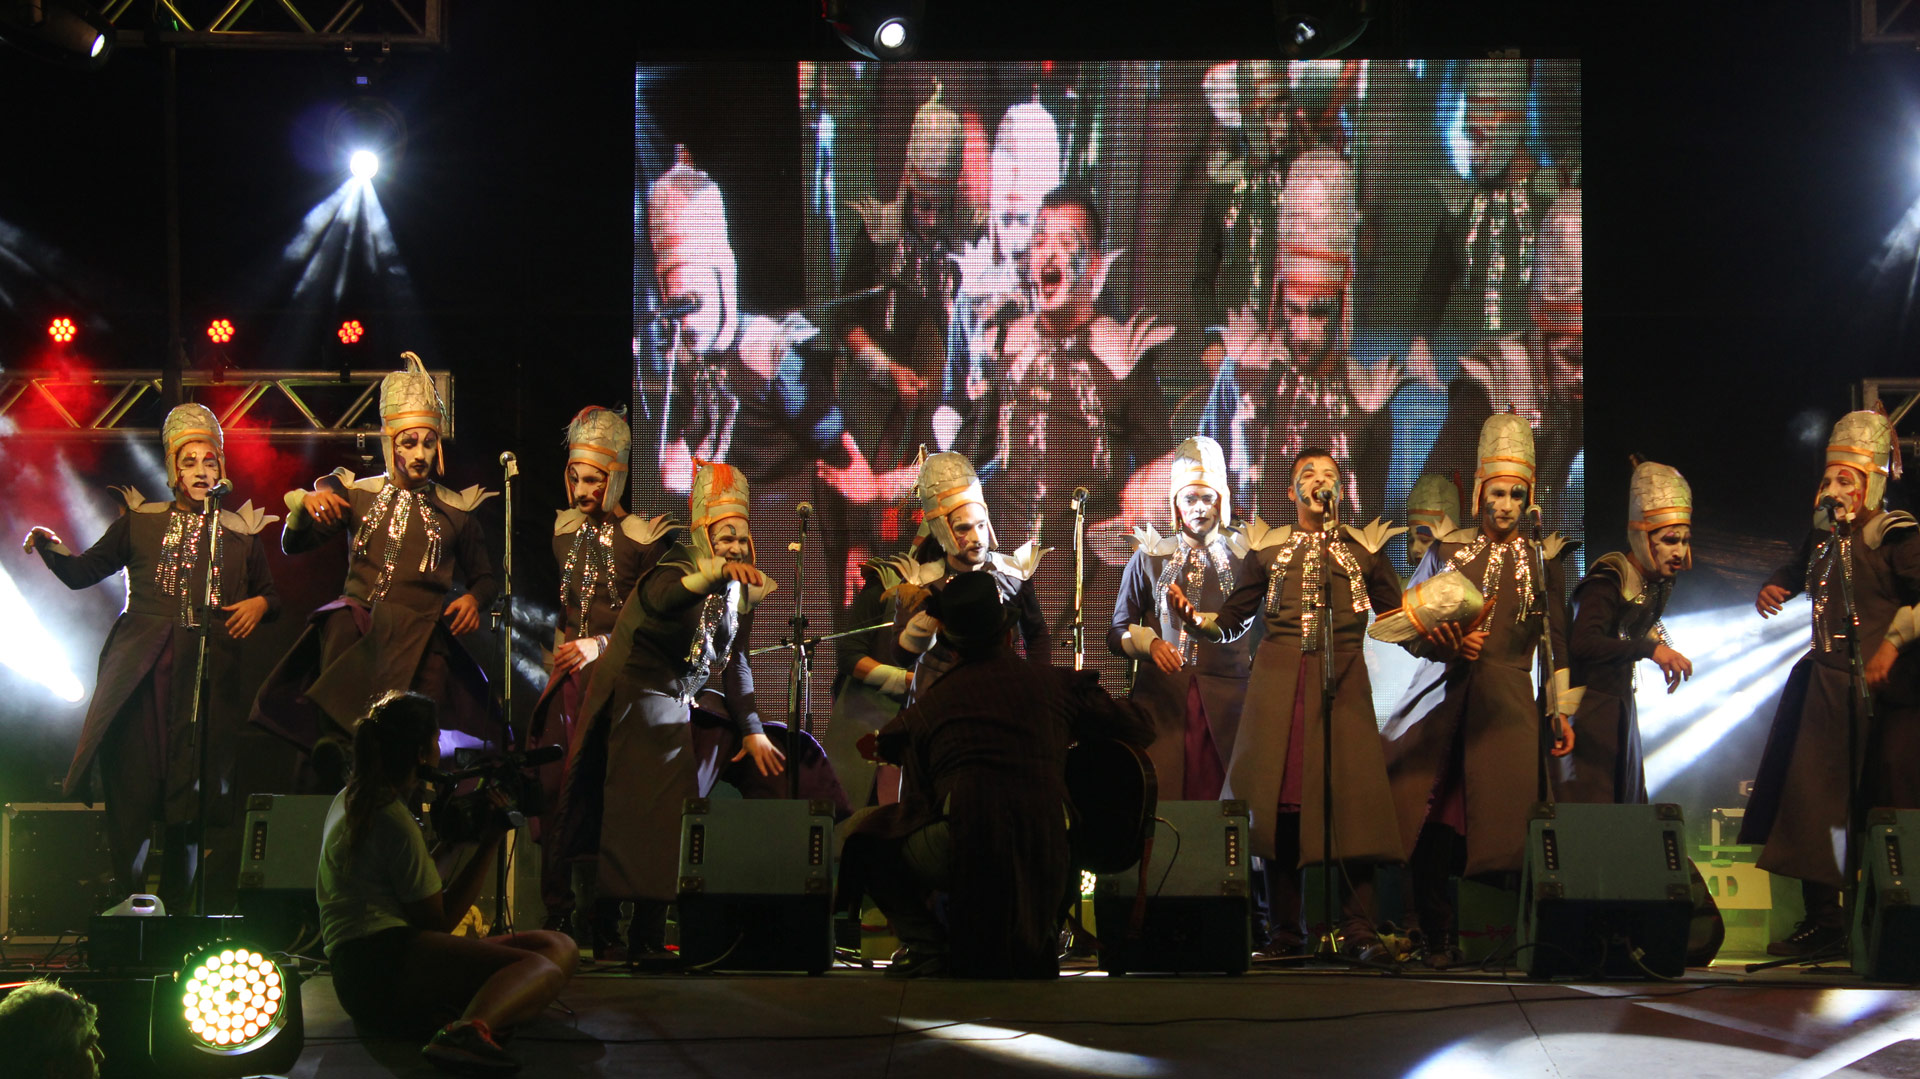
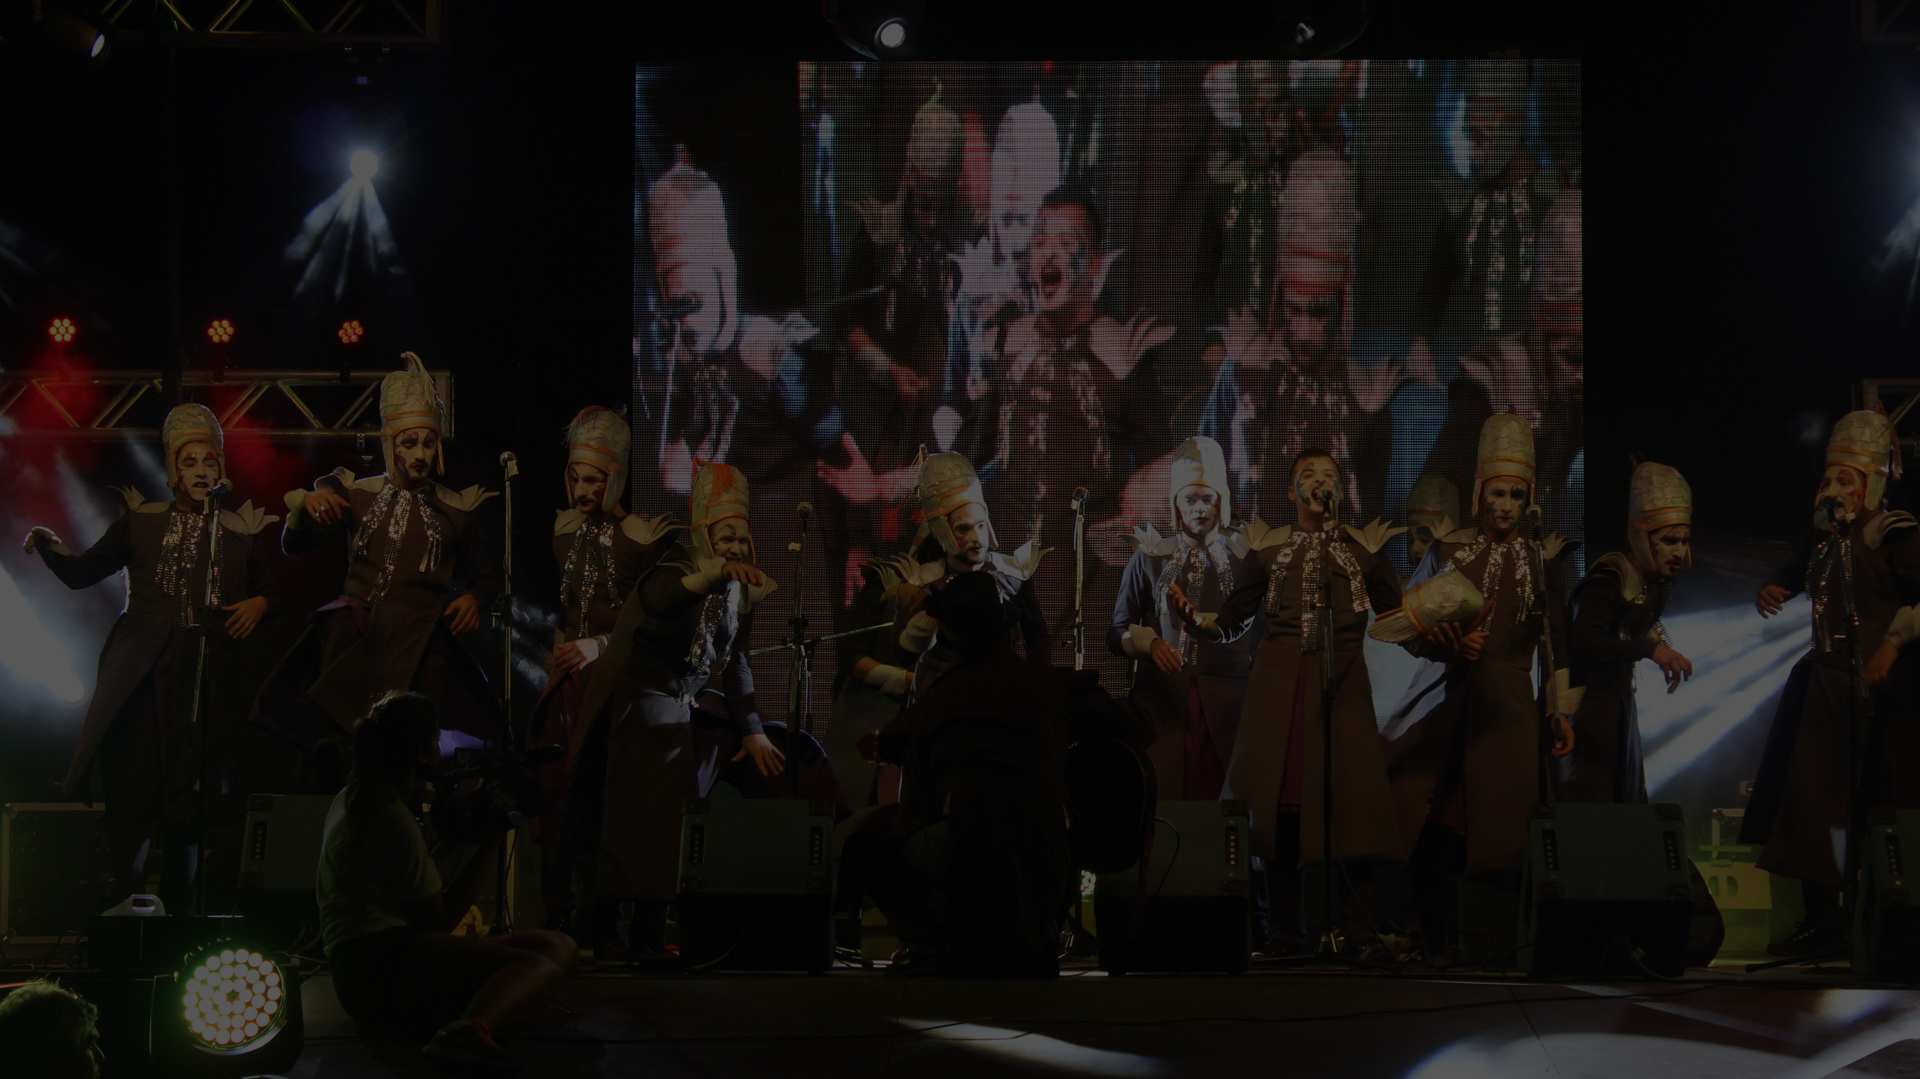
agregué imágenes de fondo

diff --git a/historia.html b/historia.html
@@ -35,9 +35,211 @@
     </header>
 
 
-    <main>
+    <section class="historia__contenedor">
+        <div class="accordion" id="accordionExample">
+            <div class="card">
+                <div class="card-header" id="headingOne">
+                    <h2 class="mb-0">
+                        <button class="btn btn-link btn-block text-left" type="button" data-toggle="collapse" data-target="#collapseOne" aria-expanded="true" aria-controls="collapseOne">
+                            2020 - Estreno de "A todo o nada"
+                        </button>
+                    </h2>
+                </div>
 
-        <section class="historia">
+                <div id="collapseOne" class="collapse show" aria-labelledby="headingOne" data-parent="#accordionExample">
+                    <div class="card-body">
+                        Some placeholder content for the first accordion panel. This panel is shown by default, thanks to the <code>.show</code> class.
+                    </div>
+                </div>
+            </div>
+
+            <div class="card">
+                <div class="card-header" id="headingTwo">
+                    <h2 class="mb-0">
+                        <button class="btn btn-link btn-block text-left collapsed" type="button" data-toggle="collapse" data-target="#collapseTwo" aria-expanded="false" aria-controls="collapseTwo">
+                            2019 - Grabación de primer álbum
+                        </button>
+                    </h2>
+                </div>
+                <div id="collapseTwo" class="collapse" aria-labelledby="headingTwo" data-parent="#accordionExample">
+                    <div class="card-body">
+                        <p>En 2019 la murga despidió Suerte! en el
+                            Teatro Roma de Avellaneda y en el Teatro Colonial de
+                            25 de Mayo, en las dos ocasiones a sala llena. </p>
+                        <p>    
+                            Este mismo año graba su primer disco, en el
+                            que se compila material de sus cuatro
+                            espectáculos. Si bien la murga había realizado distintas grabaciones en formato audio y también audiovisual a lo largo de su historia, es ésta la primera ocasión que se encara un producto artístico de calidad profesional. Se espera que dicho álbum se estrene a lo largo del año 2020 en todas las plataformas digitales. 
+                        </p>
+                    </div>
+                </div>
+            </div>
+
+            <div class="card">
+                <div class="card-header" id="headingTwo">
+                    <h2 class="mb-0">
+                        <button class="btn btn-link btn-block text-left collapsed" type="button" data-toggle="collapse" data-target="#collapseThree" aria-expanded="false" aria-controls="collapseTwo">
+                            2018 - Estreno de "Suerte!"
+                        </button>
+                    </h2>
+                </div>
+                <div id="collapseThree" class="collapse" aria-labelledby="headingThree" data-parent="#accordionExample">
+                    <div class="card-body">
+                        <p>
+                            En 2017 la murga lanza su cuarto
+                            espectáculo titulado Suerte!, realizando
+                            el estreno en el Teatro Cervantes de
+                            Quilmes.
+                            Además participa de la grabación del
+                            disco El Bar de los Errores de la banda
+                            Sobra Milonga, acompañándolos en sus
+                            presentaciones en Niceto Club, Teatro
+                            de Flores, Teatro Roma y Teatro de
+                            Lomas de Zamora, etc.
+                        </p>
+                    </div>
+                </div>
+            </div>
+
+            <div class="card">
+                <div class="card-header" id="headingTwo">
+                    <h2 class="mb-0">
+                        <button class="btn btn-link btn-block text-left collapsed" type="button" data-toggle="collapse" data-target="#collapseFour" aria-expanded="false" aria-controls="collapseTwo">
+                            2017 - "Losotros"
+                        </button>
+                    </h2>
+                </div>
+                <div id="collapseFour" class="collapse" aria-labelledby="headingFour" data-parent="#accordionExample">
+                    <div class="card-body">
+                        <p>
+                            En el verano 2018 gira por segunda vez
+                            por la costa atlántica, culminando con una fecha en Mar del Plata en el marco del Festival de Carnaval, 
+                            compartiendo escenario con Miss Bolivia.
+
+                            Además, presentó el show "Losotros", en conjunto
+                            con la banda La Casita Rodante,
+                            Santiago Corei y el Mago Martini, que combinaba rock, ska, murga y magia.
+                        </p>
+                    </div>
+                </div>
+            </div>
+
+            <div class="card">
+                <div class="card-header" id="headingTwo">
+                    <h2 class="mb-0">
+                        <button class="btn btn-link btn-block text-left collapsed" type="button" data-toggle="collapse" data-target="#collapseFive" aria-expanded="false" aria-controls="collapseTwo">
+                            2016 - Estreno de "Un circo"
+                        </button>
+                    </h2>
+                </div>
+                <div id="collapseFive" class="collapse" aria-labelledby="headingFive" data-parent="#accordionExample">
+                    <div class="card-body">
+                        <p></p>
+                        En 2016, estrena Un circo en el marco del
+                        carnaval, con una serie de shows en
+                        zona sur, y Mala Vida, en San Telmo.
+                        La presentación oficial fue en el mes de
+                        abril, en el Teatro Cervantes. Meses
+                        después, Beatflow, en Palermo, y el
+                        Teatro Municipal de Quilmes entre
+                        otros escenarios, para despedirlo en el
+                        Teatro Colonial de Capital Federal, con
+                        una función a sala llena.
+                    </div>
+                </div>
+            </div>
+
+            <div class="card">
+                <div class="card-header" id="headingTwo">
+                    <h2 class="mb-0">
+                        <button class="btn btn-link btn-block text-left collapsed" type="button" data-toggle="collapse" data-target="#collapseSix" aria-expanded="false" aria-controls="collapseTwo">
+                            2015 - Estreno de "Maldición"
+                        </button>
+                    </h2>
+                </div>
+                <div id="collapseSix" class="collapse" aria-labelledby="headingSix" data-parent="#accordionExample">
+                    <div class="card-body">
+                        <p>
+                            El 2015 empezó con muchas expectativas para 5Pal'Peso: nuevamente fueron invitados a participar del "Carnaval del Encuentro de Quilmes". Esta vez compartiendo escenario con otra murga histórica de Uruguay: Falta y Resto. En esta oportunidad, presentaron un adelanto del segundo espectáculo: Maldición. También llevaron este formato de show a Villa Gesell por primera vez para participar del festival "El Futuro ya llegó". Con el gran impulso que venían acumulando desde el año 2013, decidieron autogestionar su primer gran show: para esto alquilaron el mítico "Teatro Cervantes" de la ciudad de Quilmes y se encargaron de producir íntegramente la fecha: desde lo escénico hasta la difusión y la técnica. El show fue un éxito rotundo. Ni lentos ni perezosos, fueron por su segunda gran fecha autogestionada, para desembarcar por primera vez en el histórico Teatro Colonial de San Telmo.
+                        </p>
+                    </div>
+                </div>
+            </div>
+
+            <div class="card">
+                <div class="card-header" id="headingTwo">
+                    <h2 class="mb-0">
+                        <button class="btn btn-link btn-block text-left collapsed" type="button" data-toggle="collapse" data-target="#collapseSeven" aria-expanded="false" aria-controls="collapseTwo">
+                            2014 - Teatro Municipal de Quilmes
+                        </button>
+                    </h2>
+                </div>
+                <div id="collapseSeven" class="collapse" aria-labelledby="headingSeven" data-parent="#accordionExample">
+                    <div class="card-body">
+                        <p>
+                            Después del exitoso debut del espectáculo "Elecciones", 5Pal'Peso no se tomó vacaciones y siguió ensayando y ajustando algunas cosas de cara al próximo show que se venía: durante el carnaval de 2014, les llega una invitación de la Municipalidad de Quilmes para presentarse en el Carnaval del Encuentro, en el que compartirían escenario con la murga uruguaya más popular de esos últimos años: Agarrate Catalina. Esto significó otro momento bisagra en su historia. Durante ese año siguieron recorriendo distintos espacios del circuito cultural de la ciudad de Quilmes para culminar con una fecha en el Teatro Municipal de Quilmes donde grabarían su primer DVD. Fue grande la sorpresa cuando se enteraron que las entradas se agotaron ese mismo día. Luego de otra noche exitosa y para el recuerdo, la murga decidió que debían empezar a pensar en un nuevo espectáculo.
+                        </p>
+                    </div>
+                    <div class="card-img">
+                        <img src="imagenes/espectaculos/suerte_1.jpg" alt="">
+                    </div>
+                </div>
+            </div>
+
+            <div class="card">
+                <div class="card-header" id="headingTwo">
+                    <h2 class="mb-0">
+                        <button class="btn btn-link btn-block text-left collapsed" type="button" data-toggle="collapse" data-target="#collapseEight" aria-expanded="false" aria-controls="collapseTwo">
+                            2013 - Estreno de "Elecciones"
+                        </button>
+                    </h2>
+                </div>
+                <div id="collapseEight" class="collapse" aria-labelledby="headingEight" data-parent="#accordionExample">
+                    <div class="card-body">
+                        <p>El debut del 2012 y la participación del carnaval del año 2013, pareció funcionar como una catapulta para la popularidad de 5Pal'Peso. De boca en boca, empezó a difundirse la existencia de una murga estilo uruguaya en Quilmes (para ese entonces, un género poco difundido). En pocos meses, la murga se llenó de nuevos integrantes y de personas que querían venir a presenciar ensayos. Ya había algo que estaba tomando forma y fuerza. Si bien en la idea original del director del proyecto, Martín Fuente, no cabía la posibilidad de escribir un espectáculo propio, lo cierto es que, con las nuevas incorporaciones, la murga creció mucho artísticamente y era más que necesario empezar a pensar en canciones propias. Fue así que ese año nace "Elecciones". Y fue presentado en el Teatro Polaridades de Quilmes, con tres funciones a sala llena.</p>
+                    </div>
+                </div>
+            </div>
+
+            <div class="card">
+                <div class="card-header" id="headingTwo">
+                    <h2 class="mb-0">
+                        <button class="btn btn-link btn-block text-left collapsed" type="button" data-toggle="collapse" data-target="#collapseNine" aria-expanded="false" aria-controls="collapseTwo">
+                            2012 - Primer show de 5Pal'Peso
+                        </button>
+                    </h2>
+                </div>
+                <div id="collapseNine" class="collapse" aria-labelledby="headingNine" data-parent="#accordionExample">
+                    <div class="card-body">
+                        <p>A finales de 2011, la murga aún no conseguía un número de integrantes constantes como para empezar a pensar en un show en vivo. Esto cambiaría en la primera mitad del año 2012, cuando, de a poco se fue sumando más gente, y los ensayos se volvieron mucho más fructíferos y disfrutables. Salió el nombre "5Pal'Peso", lo que ya transformaba la primera concepción de "taller" a un grupo artístico en proceso, y empezó a rondar la idea de presentarse en vivo. Eso se concretaría el 4 de agosto del mismo año en el Bar Despertándonos (Quilmes) que, luego, pasaría a ser el escenario más concurrido por la murga.
+                        </p>
+                    </div>
+                </div>
+            </div>
+
+            <div class="card">
+                <div class="card-header" id="headingTwo">
+                    <h2 class="mb-0">
+                        <button class="btn btn-link btn-block text-left collapsed" type="button" data-toggle="collapse" data-target="#collapseTen" aria-expanded="false" aria-controls="collapseTwo">
+                            2011 - Nacimiento
+                        </button>
+                    </h2>
+                </div>
+                <div id="collapseTen" class="collapse" aria-labelledby="headingTen" data-parent="#accordionExample">
+                    <div class="card-body">
+                        <p>5 Pal’Peso nace a mediados del año 2011 en la ciudad de Quilmes. Al principio fue pensado como un taller del género de murga uruguaya, bajo la dirección de Martín Fuente, quien, anteriormente, había participado de "Jaque Mate", otra murga de Lanús. En sus comienzos, quienes asistían a este "taller-encuentro" solían ser gente relacionada con la música y, por lo general, con pocos conocimientos sobre el género. Por lo que el repertorio que se ensayaban eran canciones clásicas de la música popular uruguaya, y no de murgas (propiamente dicho). </p>
+                    </div>
+                </div>
+            </div>
+    </section>
+
+
+
+
+
+
+
+<!--         <section class="historia">
             <h2 class="historia__titulo">Línea de tiempo</h2>
             <div class="historia__linea">
                 <div class="historia__linea__2020">
@@ -54,9 +256,12 @@
                             </p>
                         </details>
                     </div>
-                </div>
+                </div> -->
 
-                <div class="historia__linea__2020">
+
+
+
+<!--                 <div class="historia__linea__2020">
                     <div class="historia__linea__2020__año">
                         <p>2020</p>
                     </div>
@@ -131,9 +336,8 @@
                 <div class="historia__linea__2011">
 
                 </div>
-            </div>
-        </section>
-    </main>
+            </div> -->
+
 
     <footer class="footer">
         <div class="footer__parrafo">

diff --git a/css/estilos.css b/css/estilos.css
@@ -936,7 +936,38 @@ nav.white {
     background-attachment: fixed;
 }
 
-.historia__titulo {
+.historia__contenedor {
+    width: auto;
+    height: auto;
+    display: flex;
+    flex-direction: column;
+    justify-content: center;
+    align-items: center;
+}
+
+/* .historia {
+    width: 80%;
+    height: auto;
+    display: flex; */
+/*     background-color: yellowgreen; */
+/* } */
+
+/* .historia__2020 {
+    width: auto;
+    height: auto;
+} */
+
+/* .historia__2020__contenedor {
+    background-color: yellowgreen;
+    height: 10vh;
+    width: 50%;
+}
+
+.historia__2020__contenedor__titulo {
+    font-size: 5em;
+}
+ */
+/* .historia__titulo {
     width: 100%;
     height: 20vh;
     background-color: darkgreen;
@@ -981,6 +1012,6 @@ nav.white {
 
 .historia__linea__2020 p {
     font-size: 2em;
-}
+} */
 
 
